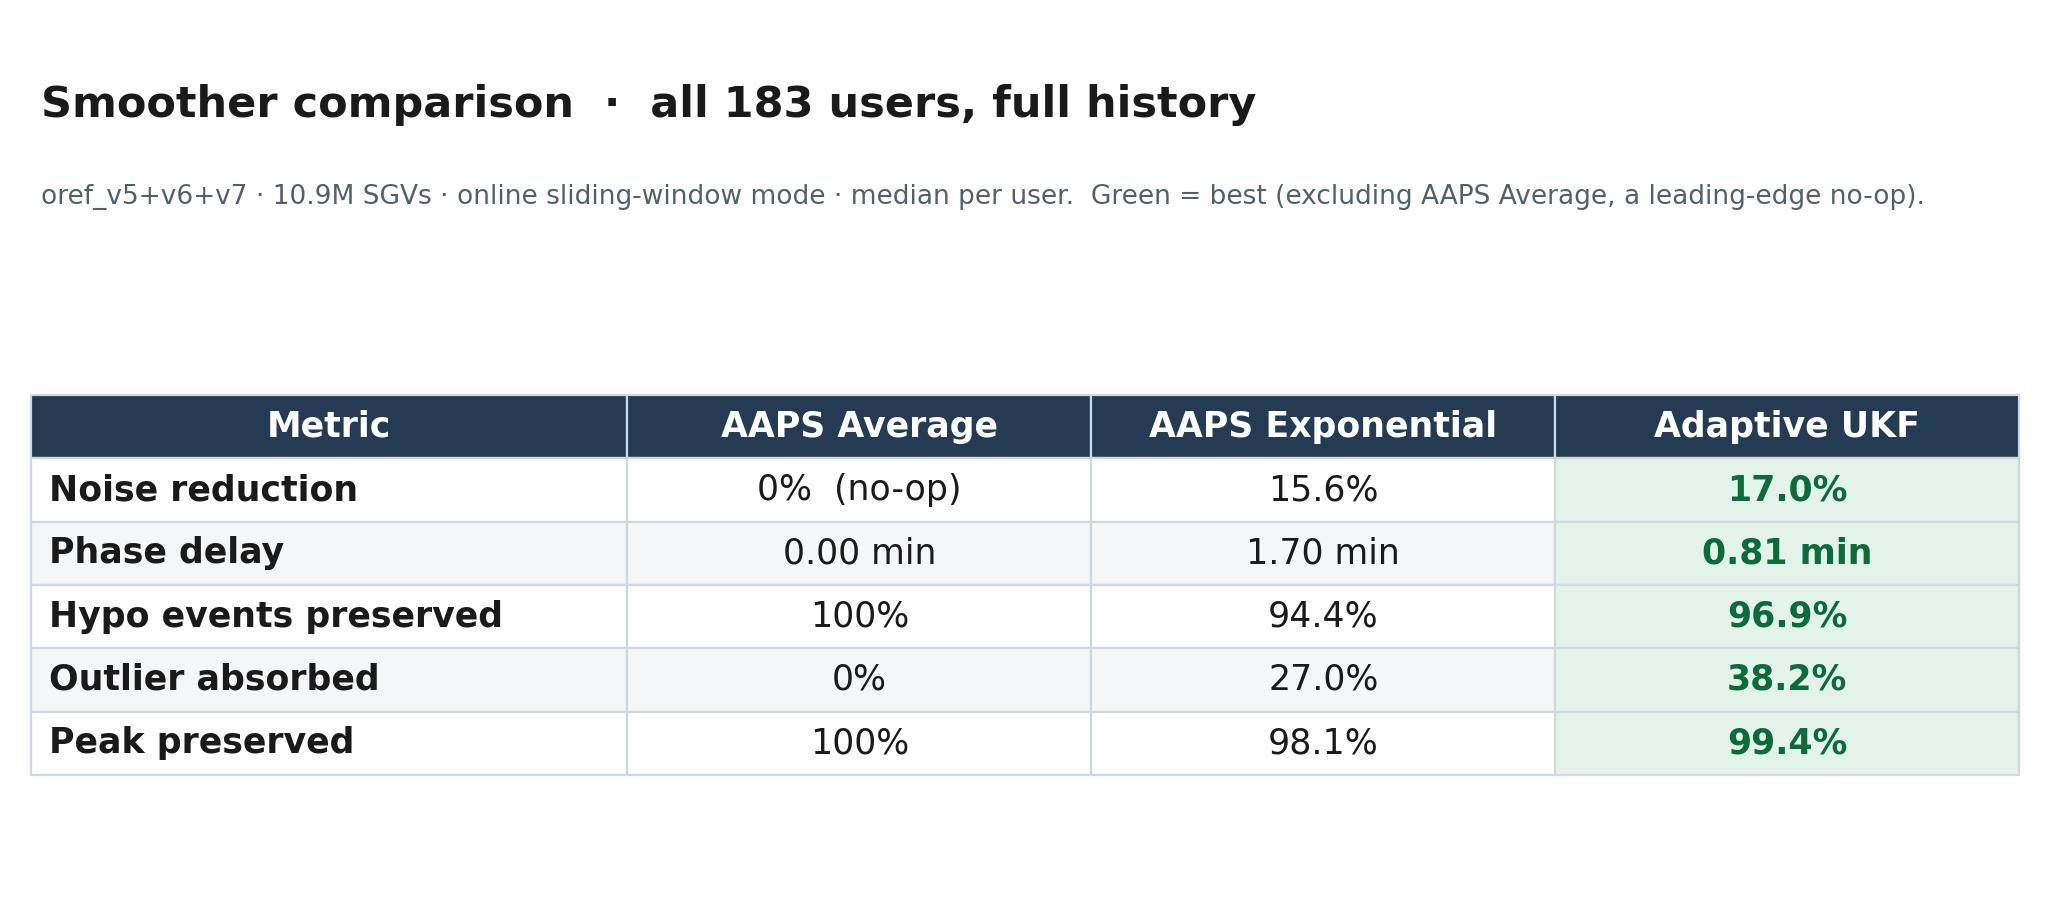
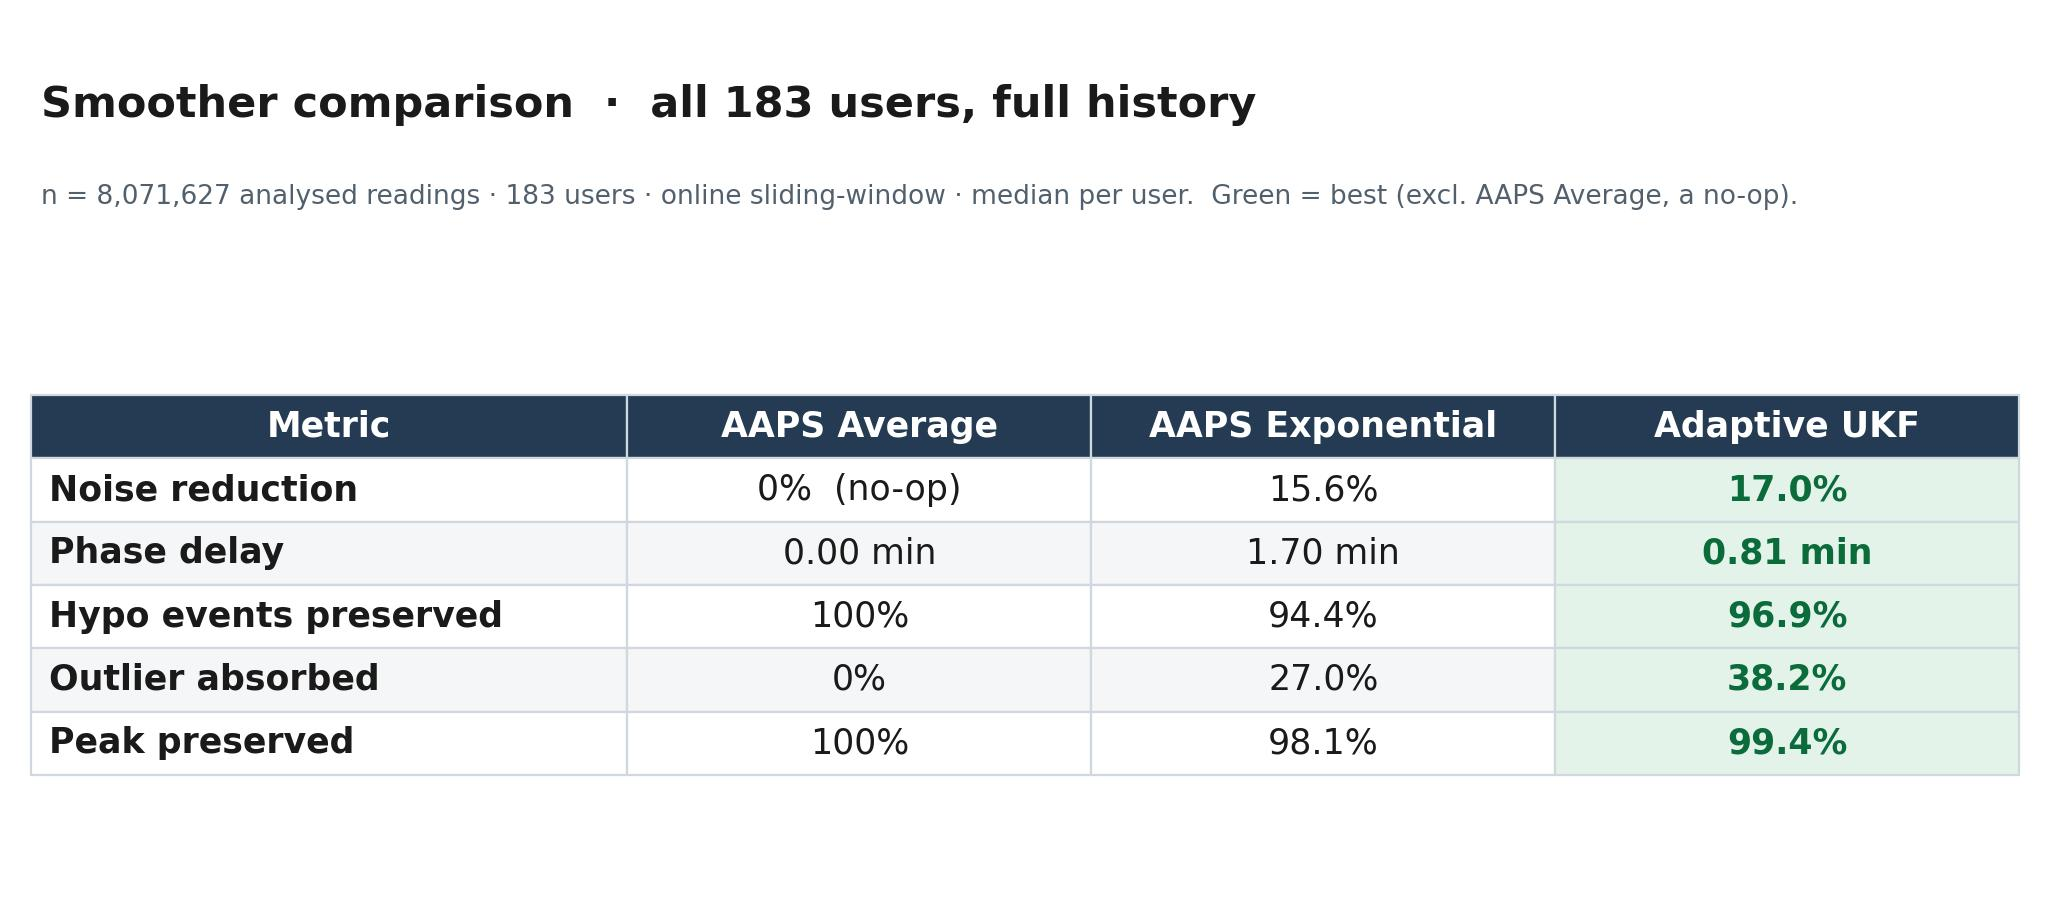
Bake n data points into table figures
Claude-Session: https://claude.ai/code/session_01Va1xSAxXBTUAheaeKcDBGe

Changed region(s): [[0.0312, 0.1867, 0.9366, 0.2489]]

diff --git a/reports_full/make_tables.py b/reports_full/make_tables.py
@@ -30,6 +30,7 @@ def render(fname, title, subtitle, col_labels, rows, best_cells, label_w=0.30):
     tbl.auto_set_font_size(False)
     tbl.set_fontsize(12.5)
     tbl.scale(1, 1.9)
+    multiline_hdr = any("\n" in str(lbl) for lbl in col_labels)
     val_w = (1.0 - label_w) / (ncol - 1)
     widths = [label_w] + [val_w] * (ncol - 1)
     for (r, c), cell in tbl.get_celld().items():
@@ -39,6 +40,9 @@ def render(fname, title, subtitle, col_labels, rows, best_cells, label_w=0.30):
         if r == 0:
             cell.set_facecolor(HDRBG)
             cell.set_text_props(color="white", fontweight="bold")
+            if multiline_hdr:
+                cell.set_height(cell.get_height() * 1.75)
+                cell.set_fontsize(11.5)
         else:
             data_r = r - 1
             base = "white" if data_r % 2 == 0 else ALTBG
@@ -67,8 +71,8 @@ def render(fname, title, subtitle, col_labels, rows, best_cells, label_w=0.30):
 render(
     "table1_full_cohort.jpg",
     "Smoother comparison  ·  all 183 users, full history",
-    "oref_v5+v6+v7 · 10.9M SGVs · online sliding-window mode · median per user.  "
-    "Green = best (excluding AAPS Average, a leading-edge no-op).",
+    "n = 8,071,627 analysed readings · 183 users · online sliding-window · median per user.  "
+    "Green = best (excl. AAPS Average, a no-op).",
     ["Metric", "AAPS Average", "AAPS Exponential", "Adaptive UKF"],
     [
         ["Noise reduction",       "0%  (no-op)", "15.6%",    "17.0%"],
@@ -86,7 +90,8 @@ render(
     "table2_ukf_by_platform.jpg",
     "Adaptive UKF  ·  consistency across platforms",
     "Median UKF metrics per source table.  v5 = Trio · v6 = AndroidAPS (pre-DynISF) · v7 = OpenAPS/oref0.",
-    ["Metric", "oref_v5  (n=29)", "oref_v6  (n=44)", "oref_v7  (n=110)"],
+    ["Metric", "oref_v5\n29 users · 2.21M pts", "oref_v6\n44 users · 1.27M pts",
+     "oref_v7\n110 users · 4.60M pts"],
     [
         ["Noise reduction",       "23.0%",    "12.9%",    "16.6%"],
         ["Phase delay",           "1.08 min", "0.85 min", "0.76 min"],
@@ -101,9 +106,9 @@ render(
 render(
     "table3_sensor_g6_g7.jpg",
     "Sensor-stratified  ·  Dexcom G6 vs G7",
-    "Sensor-tagged cohort (oref_phase2_sites_v2) · 9 G6 + 6 G7 users · median per user.  "
-    "Green = Adaptive UKF beats AAPS Exponential.",
-    ["Metric", "G6 · Exp", "G6 · UKF", "G7 · Exp", "G7 · UKF"],
+    "Sensor-tagged cohort (oref_phase2_sites_v2) · median per user · n per column · "
+    "Green = UKF beats AAPS Exponential.",
+    ["Metric", "G6 · Exp\n9 users", "G6 · UKF\n238k pts", "G7 · Exp\n4 users", "G7 · UKF\n134k pts"],
     [
         ["Noise reduction",      "20.6%",    "21.7%",    "26.9%",    "26.1%"],
         ["Phase delay",          "2.02 min", "1.04 min", "2.04 min", "1.09 min"],
